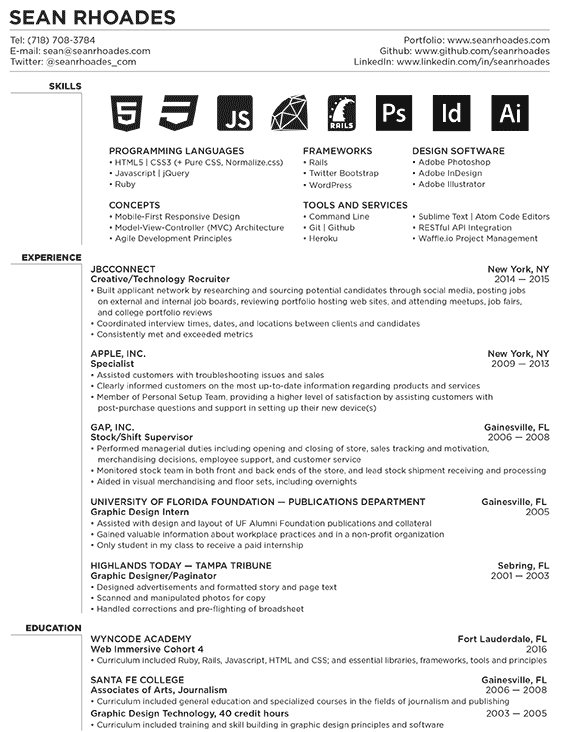
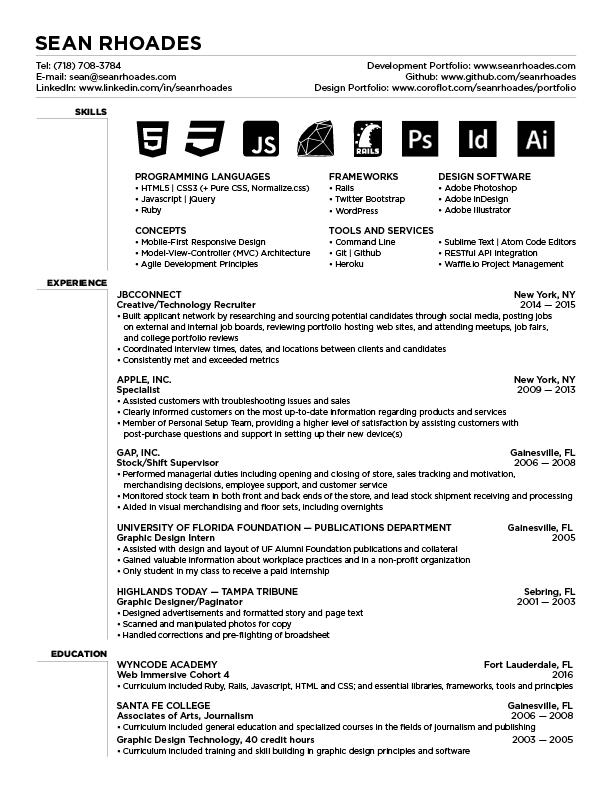
added design portfolio & updated resume & cleaned up code

Changed region(s): [[0.0, 0.0, 0.9982, 1.0], [0.847, 0.4508, 0.968, 0.5109]]

diff --git a/index.html b/index.html
@@ -1,177 +1,206 @@
 <!doctype html>
 <html lang="en">
+
 <head>
 
-  <meta charset="utf-8">
-  <meta name="viewport" content="width=device-width, initial-scale=1.0">
-  <meta name="description" content="Sean Rhoades - Developer and Designer">
+<meta charset="utf-8">
+<meta name="viewport" content="width=device-width, initial-scale=1.0">
+<meta name="description" content="Sean Rhoades - Developer and Designer">
 
-  <title>Sean Rhoades { Developer || Designer } Portfolio</title>
+<title>Sean Rhoades { Developer || Designer } Portfolio</title>
 
-  <link rel="stylesheet" href="css/pure-min.css">
-  <link rel="stylesheet" href="css/style.css">
-  <link rel="stylesheet" href="css/grids-responsive-min.css">
-  <link rel="stylesheet" href="css/animate.css">
-  <link rel="stylesheet" href="css/font-awesome.min.css">
-  <link href='https://fonts.googleapis.com/css?family=Raleway' rel='stylesheet' type='text/css'>
-  <script type="text/javascript" src="https://ajax.googleapis.com/ajax/libs/jquery/2.2.0/jquery.min.js"></script>
-  <script src="https://use.typekit.net/xam7zzx.js"></script>
-  <script>try{Typekit.load({ async: true });}catch(e){}</script>
-  <script type="text/javascript">
+<link rel="stylesheet" href="css/pure-min.css">
+<link rel="stylesheet" href="css/style.css">
+<link rel="stylesheet" href="css/grids-responsive-min.css">
+<link rel="stylesheet" href="css/animate.css">
+<link rel="stylesheet" href="css/font-awesome.min.css">
+<link href='https://fonts.googleapis.com/css?family=Raleway' rel='stylesheet' type='text/css'>
+<script type="text/javascript" src="https://ajax.googleapis.com/ajax/libs/jquery/2.2.0/jquery.min.js"></script>
+<script src="https://use.typekit.net/xam7zzx.js"></script>
+<script>try{Typekit.load({ async: true });}catch(e){}</script>
+
+<!-- scrolling anchors -->
+<script type="text/javascript">
   jQuery(document).ready(function($) {
     $(".scroll").click(function(event){
         event.preventDefault();
         $('html,body').animate({scrollTop:$(this.hash).offset().top - 50}, 500);
     });
-});
+  });
 </script>
-<!-- Preloader -->
+
+<!-- preloader -->
 <script type="text/javascript">
-    //<![CDATA[
-        $(window).load(function() { // makes sure the whole site is loaded
-            $('#status').fadeOut(); // will first fade out the loading animation
-            $('#preloader').delay(350).fadeOut('slow'); // will fade out the white DIV that covers the website.
-            $('body').delay(350).css({'overflow':'visible'});
-        })
-    //]]>
+  //<![CDATA[
+      $(window).load(function() { // makes sure the whole site is loaded
+          $('#status').fadeOut(); // will first fade out the loading animation
+          $('#preloader').delay(350).fadeOut('slow'); // will fade out the white DIV that covers the website.
+          $('body').delay(350).css({'overflow':'visible'});
+      })
+  //]]>
 </script>
+
 </head>
 
 <body>
-  <!-- Preloader -->
+
+<!-- preloader markup -->
 <div id="preloader">
     <div id="status">&nbsp;</div>
 </div>
-  <div class="header">
-    <div class="home-menu pure-menu pure-menu-horizontal">
-      <ul class="pure-menu-list">
-        <li class="pure-menu-item"><a href="#about" class="pure-menu-link scroll animated slideInRight">About Me</a></li>
-        <li class="pure-menu-item"><a href="#projects" class="pure-menu-link scroll animated slideInRight">Projects</a></li>
-        <li class="pure-menu-item"><a href="#resume" class="pure-menu-link scroll animated slideInRight">Resume</a></li>
-        <li class="pure-menu-item"><a href="#contact" class="pure-menu-link scroll animated slideInRight">Contact</a></li>
-      </ul>
+
+<!-- actual body -->
+<div class="header">
+  <div class="home-menu pure-menu pure-menu-horizontal">
+    <ul class="pure-menu-list">
+      <li class="pure-menu-item"><a href="#about" class="pure-menu-link scroll animated slideInRight">About Me</a></li>
+      <li class="pure-menu-item"><a href="#projects" class="pure-menu-link scroll animated slideInRight">Projects</a></li>
+      <li class="pure-menu-item"><a href="#resume" class="pure-menu-link scroll animated slideInRight">Resume</a></li>
+      <li class="pure-menu-item"><a href="#contact" class="pure-menu-link scroll animated slideInRight">Contact</a></li>
+    </ul>
+  </div>
+</div>
+
+<div class="splash-container">
+  <div class="splash">
+    <h1 class="splash-head" id="typewriter"></h1>
+  </div>
+</div>
+
+<div class="content-wrapper">
+
+  <div class="content">
+    <h2 class="content-head is-center animated slideInUp">{ Developer || Designer }</h2>
+  </div>
+
+  <div class="l-box pure-g" id="about">
+    <div class="l-box is-center pure-u-1 pure-u-md-1-1 pure-u-lg-1-1">
+      <h3 class="content-head content-head-ribbon">About Me</h3>
     </div>
   </div>
 
-  <div class="splash-container">
-    <div class="splash">
-      <h1 class="splash-head" id="typewriter"></h1>
+  <div class="l-box-lrg pure-g">
+    <div class="l-box-lrg is-center pure-u-1 pure-u-md-1-2 pure-u-lg-2-5">
+      <img class="pure-img-responsive rounded" alt="Sean Rhoades" width="300" src="img/photo.jpg">
+    </div>
+    <div class="pure-u-1 pure-u-md-1-2 pure-u-lg-3-5" style="padding: 3em">
+      <p class="content">Hi, I'm Sean. I'm a Developer and Designer living in Fort Lauderdale. My passion for development and design started at a young age, when I taught myself HTML by reading the source code of awesome 90s web sites. I worked for a newspaper in high school, where I learned Photoshop, Illustrator, and InDesign. I quickly became obsessed with perfect presentation. I went to college, worked in retail, and lived in New York City. At the beginning of 2016, I decided to pursue my love of creatology further and attended Wyncode's Web Immersive boot camp. Check out my portfolio, and let's create some forward thinking, responsive, beautiful projects together.</p>
     </div>
   </div>
 
-  <div class="content-wrapper">
-    <div class="content">
-      <h2 class="content-head is-center animated slideInUp">{ Developer || Designer }</h2>
+  <div class="l-box pure-g" id="projects">
+    <div class="l-box is-center pure-u-1 pure-u-md-1-1 pure-u-lg-1-1">
+      <h3 class="content-head content-head-ribbon" style="padding-bottom:4em">Projects</h3>
     </div>
-    <div class="l-box pure-g" id="about">
-        <div class="l-box is-center pure-u-1 pure-u-md-1-1 pure-u-lg-1-1">
-          <h3 class="content-head content-head-ribbon">About Me</h3>
-        </div>
-    </div>
-      <div class="l-box-lrg pure-g">
-          <div class="l-box-lrg is-center pure-u-1 pure-u-md-1-2 pure-u-lg-2-5">
-              <img class="pure-img-responsive rounded" alt="Sean Rhoades" width="300" src="img/photo.jpg">
-          </div>
-          <div class="pure-u-1 pure-u-md-1-2 pure-u-lg-3-5" style="padding: 3em">
-            <p class="content">Hi, I'm Sean. I'm a Developer and Designer living in Fort Lauderdale. My passion for development and design started at a young age, when I taught myself HTML by reading the source code of awesome 90s web sites. I worked for a newspaper in high school, where I learned Photoshop, Illustrator, and InDesign. I quickly became obsessed with perfect presentation. I went to college, worked in retail, and lived in New York City. At the beginning of 2016, I decided to pursue my love of creatology further and attended Wyncode's Web Immersive boot camp. Check out my portfolio, and let's create some forward thinking, responsive, beautiful projects together.</p>
-          </div>
-      </div>
-      <div class="l-box pure-g" id="projects">
-          <div class="l-box is-center pure-u-1 pure-u-md-1-1 pure-u-lg-1-1">
-            <h3 class="content-head content-head-ribbon" style="padding-bottom:4em">Projects</h3>
-          </div>
-      </div>
-      <div class="ribbon l-box-lrg pure-g">
-        <div class="l-box-lrg is-center pure-u-1 pure-u-md-1-3 pure-u-lg-1-3">
-            <a href="http://www.rhoadespartyof3.com" target="_blank">
-              <img class="pure-img-responsive more-rounded with-fade-out" alt="Rhoades Party of 3" width="300" src="img/partyof3.jpg"></a>
-            <h3 style="font-weight:300">RHOADES PARTY OF 3</h3>
-            <p class="content">My brother was getting married, and I created a web app for his wedding. It allows users to view information about the wedding and upload and view a stream of photos. My intent was for it to be used as a mobile app during the ceremony.</p>
-        </div>
-          <div class="l-box-lrg is-center pure-u-1 pure-u-md-1-3 pure-u-lg-1-3">
-              <a href="http://www.fanluv.co" target="_blank"><img class="pure-img-responsive more-rounded with-fade-out" alt="File Icons" width="300" src="img/fanluv.jpg"></a>
-              <h3 style="font-weight:300">FANLUV</h3>
-              <p class="content">This is my final Ruby on Rails project for Wyncode. I came up with the idea, and as a group we decided on the functionality. It is a platform/social network to faciliate musicians' fan clubs.</p>
-          </div>
-          <div class="l-box-lrg is-center pure-u-1 pure-u-md-1-3 pure-u-lg-1-3">
-              <a href="http://www.beeromatic.info" target="_blank"><img class="pure-img-responsive more-rounded with-fade-out image" alt="File Icons" width="300" src="img/beeromatic.jpg"></a>
-              <h3 style="font-weight:300">BEER-O-MATIC</h3>
-              <p class="content">This is a responsive, mobile-first Ruby on Rails site I built at Wyncode. On each page load, you receive information about a random beer. I used the BreweryDB API to pull the information.</p>
-          </div>
-        </div>
-        <div class="ribbon l-box-lrg pure-g">
-          <div class="l-box-lrg is-center pure-u-1 pure-u-md-1-3 pure-u-lg-1-3">
-              <a href="https://github.com/seanrhoades/octoberandcoffee" target="_blank"><img class="pure-img-responsive more-rounded with-fade-out" alt="File Icons" width="300" src="img/coffee.jpg"></a>
-              <h3 style="font-weight:300">OCTOBER & COFFEE</h3>
-              <p class="content">This is a group Ruby on Rails project I worked on at Wyncode for Friends & Family night. It is a web application for coffee enthusiasts. </p>
-          </div>
-          <div class="l-box-lrg is-center pure-u-1 pure-u-md-1-3 pure-u-lg-1-3">
-              <a href="https://github.com/seanrhoades/repl_game" target="_blank"><img class="pure-img-responsive more-rounded with-fade-out" alt="File Icons" width="300" src="img/repl_game.jpg"></a>
-              <h3 style="font-weight:300">REPL GAME</h3>
-              <p class="content">This is a Ruby REPL game I created at Wyncode. It's a mix of Grand Theft Auto and a Choose Your Own Adventure. I had a lot of fun with this project.</p>
-          </div>
-          <div class="l-box-lrg is-center pure-u-1 pure-u-md-1-3 pure-u-lg-1-3">
-            <a href="https://github.com/seanrhoades/tip_calculator" target="_blank"><img class="pure-img-responsive more-rounded with-fade-out" alt="File Icons" width="300" src="img/tip_calculator.jpg"></a>
-            <h3 style="font-weight:300">TIP CALCULATOR</h3>
-            <p class="content">This is a Wyncode pair programming project I worked on with my classmate Robert Anderson, written in Ruby.</p>
-          </div>
-        </div>
-        <div class="ribbon l-box-lrg pure-g">
-          <div class="l-box-lrg is-center pure-u-1 pure-u-md-1-1 pure-u-lg-1-1">
-              <a href="404.html"><img class="pure-img-responsive more-rounded with-fade-out" alt="File Icons" width="300" src="img/fourohfour.jpg"></a>
-              <h3 style="font-weight:300">GREATEST 404 EVER</h3>
-              <p class="content">Just because.</p>
-          </div>
-        </div>
-      <div class="l-box pure-g">
-              <div class="l-box is-center pure-u-1 pure-u-md-1-1 pure-u-lg-1-1">
-                <h3 class="content-head content-head-ribbon" style="padding-top:3em" id="resume">Resume</h3>
-              </div>
-          </div>
-      <div class="l-box-lrg pure-g">
-          <div class="l-box-lrg is-center pure-u-1 pure-u-md-1 pure-u-1">
-              <a href="img/RhoadesSeanResume.pdf" target="_blank"><img class="pure-img-responsive" alt="Sean Rhoades" src="img/resume.png"></a>
-              <p class="content">< click resume to view as PDF ></p>
+  </div>
 
-          </div>
-      </div>
-      <div class="l-box pure-g">
-              <div class="l-box is-center pure-u-1 pure-u-md-1-1 pure-u-lg-1-1" id="contact">
-                <h3 class="content-head content-head-ribbon" style="padding-bottom:4em">Contact</h3>
-              </div>
-      </div>
-      <div class="ribbon l-box-lrg pure-g" style="background-color:#6FBEF3">
-        <div class="l-box-lrg is-center pure-u-1 pure-u-md-1 pure-u-lg-1" style="padding-bottom:6em; padding-top:12em">
-          <a href="mailto:sean@seanrhoades.com"><i class="fa fa-envelope fa-5x" style="color:white"></i></a>
-          <br><a href="https://linkedin.com/in/seanrhoades" target="_blank"><i class="fa fa-linkedin-square fa-5x" style="color:white"></i></a>
-          <a href="https://twitter.com/seanrhoades_com" target="_blank"><i class="fa fa-twitter-square fa-5x" style="color:white"></i></a>
-          <a href="https://github.com/seanrhoades" target="_blank"><i class="fa fa-github-square fa-5x" style="color:white"></i></a>
-          <p class="content">Additionally, you can find more of my contact information in my <a href="img/RhoadesSeanResume.pdf" class="fa" style="color:white; font-family:'museo-sans',sans-serif; text-decoration:none">resume</a>.</p>
-        </div>
-      </div>
-      <i></i>
+  <div class="ribbon l-box-lrg pure-g">
+    <div class="l-box-lrg is-center pure-u-1 pure-u-md-1-3 pure-u-lg-1-3">
+      <a href="http://www.rhoadespartyof3.com" target="_blank"><img class="pure-img-responsive more-rounded with-fade-out" alt="Rhoades Party of 3" width="300" src="img/partyof3.jpg"></a>
+      <h3 style="font-weight:300">RHOADES PARTY OF 3</h3>
+      <p class="content">My brother was getting married, and I created a web app for his wedding. It allows users to view information about the wedding and upload and view a stream of photos. My intent was for it to be used as a mobile app during the ceremony.</p>
+    </div>
+    <div class="l-box-lrg is-center pure-u-1 pure-u-md-1-3 pure-u-lg-1-3">
+      <a href="http://www.fanluv.co" target="_blank"><img class="pure-img-responsive more-rounded with-fade-out" alt="File Icons" width="300" src="img/fanluv.jpg"></a>
+      <h3 style="font-weight:300">FANLUV</h3>
+      <p class="content">This is my final Ruby on Rails project for Wyncode. I came up with the idea, and as a group we decided on the functionality. It is a platform/social network to faciliate musicians' fan clubs.</p>
+    </div>
+    <div class="l-box-lrg is-center pure-u-1 pure-u-md-1-3 pure-u-lg-1-3">
+      <a href="http://www.beeromatic.info" target="_blank"><img class="pure-img-responsive more-rounded with-fade-out image" alt="File Icons" width="300" src="img/beeromatic.jpg"></a>
+      <h3 style="font-weight:300">BEER-O-MATIC</h3>
+      <p class="content">This is a responsive, mobile-first Ruby on Rails site I built at Wyncode. On each page load, you receive information about a random beer. I used the BreweryDB API to pull the information.</p>
+    </div>
+  </div>
+  <div class="ribbon l-box-lrg pure-g">
+    <div class="l-box-lrg is-center pure-u-1 pure-u-md-1-3 pure-u-lg-1-3">
+      <a href="https://github.com/seanrhoades/octoberandcoffee" target="_blank"><img class="pure-img-responsive more-rounded with-fade-out" alt="File Icons" width="300" src="img/coffee.jpg"></a>
+      <h3 style="font-weight:300">OCTOBER & COFFEE</h3>
+      <p class="content">This is a group Ruby on Rails project I worked on at Wyncode for Friends & Family night. It is a web application for coffee enthusiasts. </p>
+    </div>
+    <div class="l-box-lrg is-center pure-u-1 pure-u-md-1-3 pure-u-lg-1-3">
+      <a href="https://github.com/seanrhoades/repl_game" target="_blank"><img class="pure-img-responsive more-rounded with-fade-out" alt="File Icons" width="300" src="img/repl_game.jpg"></a>
+      <h3 style="font-weight:300">REPL GAME</h3>
+      <p class="content">This is a Ruby REPL game I created at Wyncode. It's a mix of Grand Theft Auto and a Choose Your Own Adventure. I had a lot of fun with this project.</p>
+    </div>
+    <div class="l-box-lrg is-center pure-u-1 pure-u-md-1-3 pure-u-lg-1-3">
+      <a href="https://github.com/seanrhoades/tip_calculator" target="_blank"><img class="pure-img-responsive more-rounded with-fade-out" alt="File Icons" width="300" src="img/tip_calculator.jpg"></a>
+      <h3 style="font-weight:300">TIP CALCULATOR</h3>
+      <p class="content">This is a Wyncode pair programming project I worked on with my classmate Robert Anderson, written in Ruby.</p>
+    </div>
+  </div>
+  <div class="ribbon l-box-lrg pure-g">
+    <div class="l-box-lrg is-center pure-u-1 pure-u-md-1-3 pure-u-lg-1-3">
+      <a href="404.html"><img class="pure-img-responsive more-rounded with-fade-out" alt="File Icons" width="300" src="img/fourohfour.jpg"></a>
+      <h3 style="font-weight:300">GREATEST 404 EVER</h3>
+      <p class="content">Just because.</p>
+    </div>
+    <div class="l-box-lrg is-center pure-u-1 pure-u-md-1-3 pure-u-lg-1-3">
+      <a href="http://www.coroflot.com/seanrhoades/portfolio" target="_blank"><img class="pure-img-responsive more-rounded with-fade-out" alt="File Icons" width="300" src="img/graphicdesign.jpg"></a>
+      <h3 style="font-weight:300">GRAPHIC DESIGN PORTFOLIO</h3>
+      <p class="content">Check out my graphic design and illustration work over at my Coroflot portfolio.</p>
+    </div>
+    <div class="l-box-lrg is-center pure-u-1 pure-u-md-1-3 pure-u-lg-1-3">
+        <br />
+    </div>
+  </div>
+
+  <div class="l-box pure-g">
+    <div class="l-box is-center pure-u-1 pure-u-md-1-1 pure-u-lg-1-1">
+      <h3 class="content-head content-head-ribbon" style="padding-top:3em" id="resume">Resume</h3>
+    </div>
+  </div>
+
+  <div class="l-box-lrg pure-g">
+    <div class="l-box-lrg is-center pure-u-1 pure-u-md-1 pure-u-1">
+      <a href="img/RhoadesSeanResume.pdf" target="_blank"><img class="pure-img-responsive" alt="Sean Rhoades" src="img/resume.png"></a>
+      <p class="content">< click resume to view as PDF ></p>
+    </div>
+  </div>
+
+  <div class="l-box pure-g">
+    <div class="l-box is-center pure-u-1 pure-u-md-1-1 pure-u-lg-1-1" id="contact">
+      <h3 class="content-head content-head-ribbon" style="padding-bottom:4em">Contact</h3>
+    </div>
+  </div>
+
+  <div class="ribbon l-box-lrg pure-g" style="background-color:#6FBEF3">
+    <div class="l-box-lrg is-center pure-u-1 pure-u-md-1 pure-u-lg-1" style="padding-bottom:6em; padding-top:12em">
+      <a href="mailto:sean@seanrhoades.com"><i class="fa fa-envelope fa-5x" style="color:white"></i></a>
+      <br><a href="https://linkedin.com/in/seanrhoades" target="_blank"><i class="fa fa-linkedin-square fa-5x" style="color:white"></i></a>
+      <a href="https://twitter.com/seanrhoades_com" target="_blank"><i class="fa fa-twitter-square fa-5x" style="color:white"></i></a>
+      <a href="https://github.com/seanrhoades" target="_blank"><i class="fa fa-github-square fa-5x" style="color:white"></i></a>
+      <p class="content">Additionally, you can find more of my contact information in my <a href="img/RhoadesSeanResume.pdf" class="fa" style="color:white; font-family:'museo-sans',sans-serif; text-decoration:none">resume</a>.</p>
+    </div>
+  </div>
+
+</div>
+
 </body>
+
+<!-- typewriter text -->
 <script type="text/javascript">
 var str = "Sean Rhoades ",
-    i = 0,
-    isTag,
-    text;
+  i = 0,
+  isTag,
+  text;
 
 (function type() {
-    text = str.slice(0, ++i);
-    if (text === str) return;
+  text = str.slice(0, ++i);
+  if (text === str) return;
 
-    document.getElementById('typewriter').innerHTML = text;
+  document.getElementById('typewriter').innerHTML = text;
 
-    var char = text.slice(-1);
-    if( char === '<' ) isTag = true;
-    if( char === '>' ) isTag = false;
+  var char = text.slice(-1);
+  if( char === '<' ) isTag = true;
+  if( char === '>' ) isTag = false;
 
-    if (isTag) return type();
-    setTimeout(type, 150);
+  if (isTag) return type();
+  setTimeout(type, 150);
 }());
 
 </script>
+
+<!-- google analytics -->
 <script>
   (function(i,s,o,g,r,a,m){i['GoogleAnalyticsObject']=r;i[r]=i[r]||function(){
   (i[r].q=i[r].q||[]).push(arguments)},i[r].l=1*new Date();a=s.createElement(o),
@@ -182,4 +211,5 @@ var str = "Sean Rhoades ",
   ga('send', 'pageview');
 
 </script>
+
 </html>
